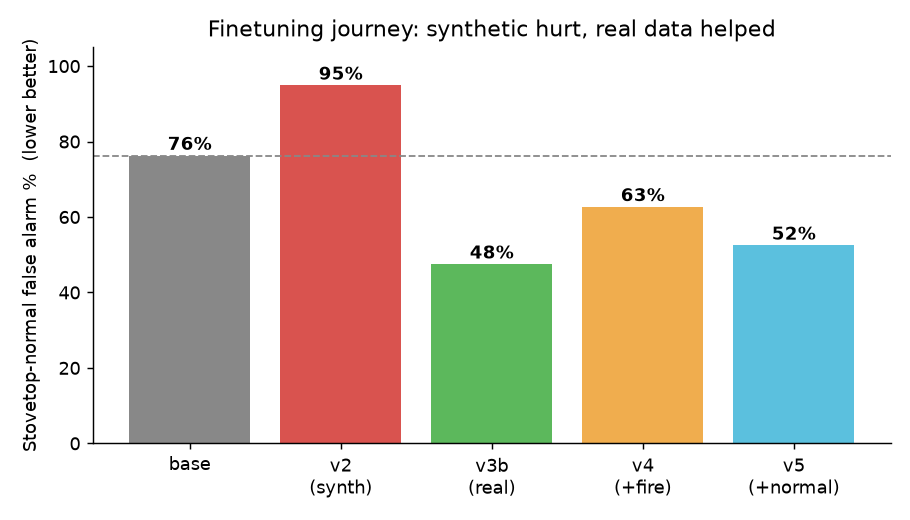
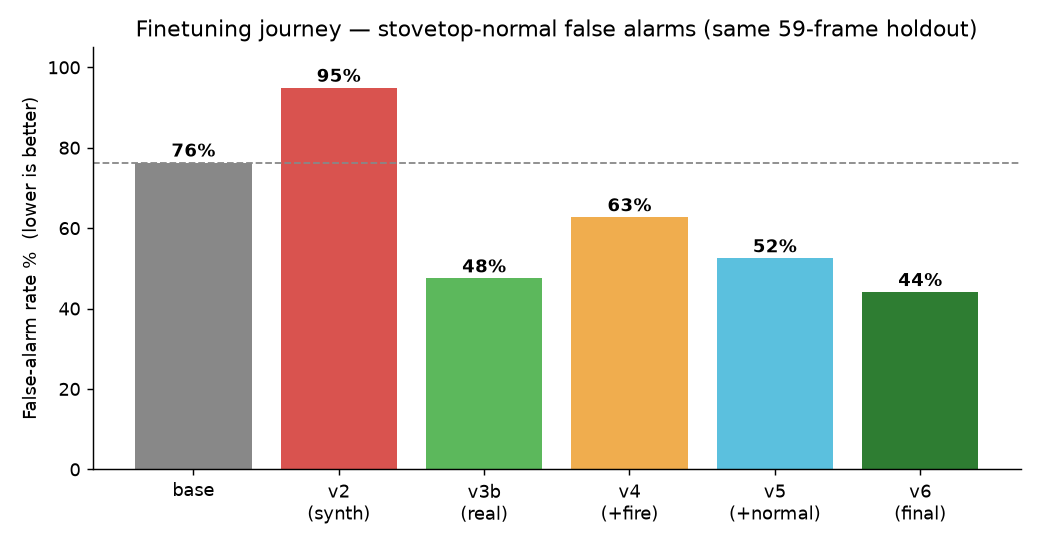
@ README: v6를 여정 그래프에 추가(44%, 최저) + 데이터 미리보기 그리드
- journey 차트에 v6(44.1%, 59장 동일지표) 추가 — v6가 최저 오탐
- % = 오탐률 명시
- 실 추출 프레임 그리드 + 합성 이미지 그리드(같은 형식) 추가

@

diff --git a/README.md b/README.md
@@ -37,12 +37,14 @@ CCTV로 조리기를 감시해 위험 시 로봇 반응(정지/열원차단)을 
 | **v2** | 합성 불꽃(조리배경) 460 | **95%** | 합성이 "조리=위험" 편향 유발 → 악화 |
 | **v3b** | 실 정상 180 + 실 화재 109 | **47.5%** | 실데이터가 처음으로 base 초과 |
 | **v4** | 실 정상 250 + 실 화재 180(+야외 터키) | 62.7% | 화재 과다·야외 → 악화 |
-| **v5** | 실 정상 ~400(12영상) + 실 화재 110 | 52.5%** | 실주방 오탐은 크게↓(dvids 93→59%) |
-| **v6** | v5에서 홀드아웃 3영상 제외 재학습 | 일상 2% | 배포 지표 확보 |
+| **v5** | 실 정상 ~400(12영상) + 실 화재 110 | 52.5% | 실주방 오탐은 크게↓(dvids 93→59%) |
+| **v6** | v5에서 홀드아웃 3영상 제외 재학습 | **44.1%** | 최저 오탐 + 배포 지표(일상 2%) 확보 |
 
-<sub>*STEP2 홀드아웃(59장) 기준. **v6는 재정의 홀드아웃 기준(일상 정상 2%).</sub>
+<sub>*값 = **오탐률**(정상을 위험으로 오판한 비율). 전부 동일한 holdout_v0/normal **59장**(발화직전+랩리그) 기준. v6의 "일상 정상" 오탐은 2%(아래 배포 스코어카드).</sub>
 
 ![finetuning journey](docs/assets/cooking_journey.png)
+
+> 막대 **% = 오탐률**(낮을수록 좋음). base 76% → 합성(v2)은 95%로 악화 → 실데이터 도입 후 계속 하락 → **v6 44%로 최저**.
 
 **교훈:** 합성은 해로웠고(가짜 상관 학습), **실 정상 데이터가 오탐을 줄이는 지렛대**. 실 화재를 더 넣는 건 오히려 역효과.
 
@@ -58,6 +60,18 @@ CCTV로 조리기를 감시해 위험 시 로봇 반응(정지/열원차단)을 
 | smoke 재현율 | 7/7 | 4/7 |
 
 **트레이드오프:** 오탐을 줄인 대신 fire 재현율 100%→93%. 안전 시스템에선 미탐이 더 위험하므로 동작점 재조정 필요.
+
+## 데이터 미리보기
+
+**실제 추출한 프레임** (테두리 색 = 라벨: 🟩정상 🟥화재 🟨발연). 다양한 주방의 스토브 조리·실 화재:
+
+![real frames](docs/assets/real_frames_grid.png)
+
+**합성 이미지** (같은 형식) — 실 조리 프레임 **위에** 실 불꽃 컷아웃/절차적 연기를 합성. 배경=실주방 유지:
+
+![synth frames](docs/assets/synth_frames_grid.png)
+
+> 합성은 "조리배경 위 불/연기"라 학습 시 "조리=위험" 편향을 유발 → 실데이터 대비 오탐 악화(위 v2). 그래서 최종 학습은 합성 대신 실데이터 위주.
 
 ## 방법 (파이프라인)
 ```
